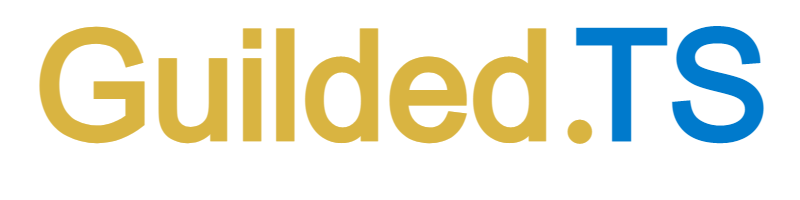
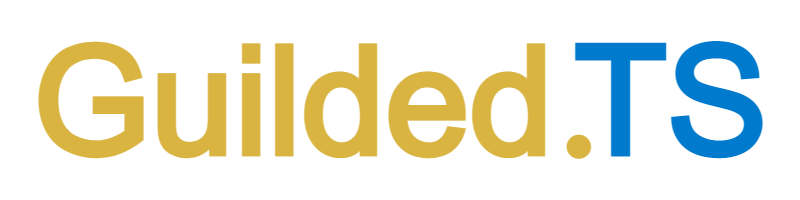
Fix grammar mistakes and re-center the texts in the images

Changed region(s): [[0.0312, 0.12, 0.9688, 0.81], [0.4375, 0.12, 0.5, 0.24]]

diff --git a/packages/guilded.ts/README.md b/packages/guilded.ts/README.md
@@ -61,9 +61,9 @@ client.login('YOUR_BOT_TOKEN');
 
 # Contributing
 
-Contributing helps us maintain Guilded.TS. All contributes are greatly appreciated.
+Contributing helps us maintain Guilded.TS. All contributions are greatly appreciated.
 
-We utilize [Yarn](https://yarnpkg.com) and [Turbo](https://turborepo.org) to manage our Monorepo. If you want to contribute we highly recommend knowing the basics of thes two.
+We utilize [Yarn](https://yarnpkg.com) and [Turbo](https://turborepo.org) to manage our Monorepo. If you want to contribute, we highly recommend knowing the basics of these two.
 
 ## Getting started
 
@@ -76,9 +76,9 @@ yarn install
 yarn build
 ```
 
-## Commiting your changes
+## Committing your changes
 
-After you have made your desired changes, Make sure you run the following script before commiting your changes:
+After you have made your desired changes, make sure you run the following script before committing your changes:
 
 ```
 # Prepare your code

diff --git a/packages/builders/README.md b/packages/builders/README.md
@@ -28,9 +28,9 @@ pnpm add @guildedts/builders
 
 # Contributing
 
-Contributing helps us maintain Guilded.TS. All contributes are greatly appreciated.
+Contributing helps us maintain Guilded.TS. All contributions are greatly appreciated.
 
-We utilize [Yarn](https://yarnpkg.com) and [Turbo](https://turborepo.org) to manage our Monorepo. If you want to contribute we highly recommend knowing the basics of thes two.
+We utilize [Yarn](https://yarnpkg.com) and [Turbo](https://turborepo.org) to manage our Monorepo. If you want to contribute, we highly recommend knowing the basics of these two.
 
 ## Getting started
 
@@ -43,9 +43,9 @@ yarn install
 yarn build
 ```
 
-## Commiting your changes
+## Committing your changes
 
-After you have made your desired changes, Make sure you run the following script before commiting your changes:
+After you have made your desired changes, make sure you run the following script before committing your changes:
 
 ```
 # Prepare your code

diff --git a/packages/guilded-api-typings/README.md b/packages/guilded-api-typings/README.md
@@ -28,9 +28,9 @@ pnpm add guilded-api-typings
 
 # Contributing
 
-Contributing helps us maintain Guilded.TS. All contributes are greatly appreciated.
+Contributing helps us maintain Guilded.TS. All contributions are greatly appreciated.
 
-We utilize [Yarn](https://yarnpkg.com) and [Turbo](https://turborepo.org) to manage our Monorepo. If you want to contribute we highly recommend knowing the basics of thes two.
+We utilize [Yarn](https://yarnpkg.com) and [Turbo](https://turborepo.org) to manage our Monorepo. If you want to contribute, we highly recommend knowing the basics of these two.
 
 ## Getting started
 
@@ -43,9 +43,9 @@ yarn install
 yarn build
 ```
 
-## Commiting your changes
+## Committing your changes
 
-After you have made your desired changes, Make sure you run the following script before commiting your changes:
+After you have made your desired changes, make sure you run the following script before committing your changes:
 
 ```
 # Prepare your code

diff --git a/packages/rest/README.md b/packages/rest/README.md
@@ -28,9 +28,9 @@ pnpm add @guildedts/rest
 
 # Contributing
 
-Contributing helps us maintain Guilded.TS. All contributes are greatly appreciated.
+Contributing helps us maintain Guilded.TS. All contributions are greatly appreciated.
 
-We utilize [Yarn](https://yarnpkg.com) and [Turbo](https://turborepo.org) to manage our Monorepo. If you want to contribute we highly recommend knowing the basics of thes two.
+We utilize [Yarn](https://yarnpkg.com) and [Turbo](https://turborepo.org) to manage our Monorepo. If you want to contribute, we highly recommend knowing the basics of these two.
 
 ## Getting started
 
@@ -43,9 +43,9 @@ yarn install
 yarn build
 ```
 
-## Commiting your changes
+## Committing your changes
 
-After you have made your desired changes, Make sure you run the following script before commiting your changes:
+After you have made your desired changes, make sure you run the following script before committing your changes:
 
 ```
 # Prepare your code

diff --git a/packages/ws/README.md b/packages/ws/README.md
@@ -28,9 +28,9 @@ pnpm add @guildedts/ws
 
 # Contributing
 
-Contributing helps us maintain Guilded.TS. All contributes are greatly appreciated.
+Contributing helps us maintain Guilded.TS. All contributions are greatly appreciated.
 
-We utilize [Yarn](https://yarnpkg.com) and [Turbo](https://turborepo.org) to manage our Monorepo. If you want to contribute we highly recommend knowing the basics of thes two.
+We utilize [Yarn](https://yarnpkg.com) and [Turbo](https://turborepo.org) to manage our Monorepo. If you want to contribute, we highly recommend knowing the basics of these two.
 
 ## Getting started
 
@@ -43,9 +43,9 @@ yarn install
 yarn build
 ```
 
-## Commiting your changes
+## Committing your changes
 
-After you have made your desired changes, Make sure you run the following script before commiting your changes:
+After you have made your desired changes, make sure you run the following script before committing your changes:
 
 ```
 # Prepare your code
